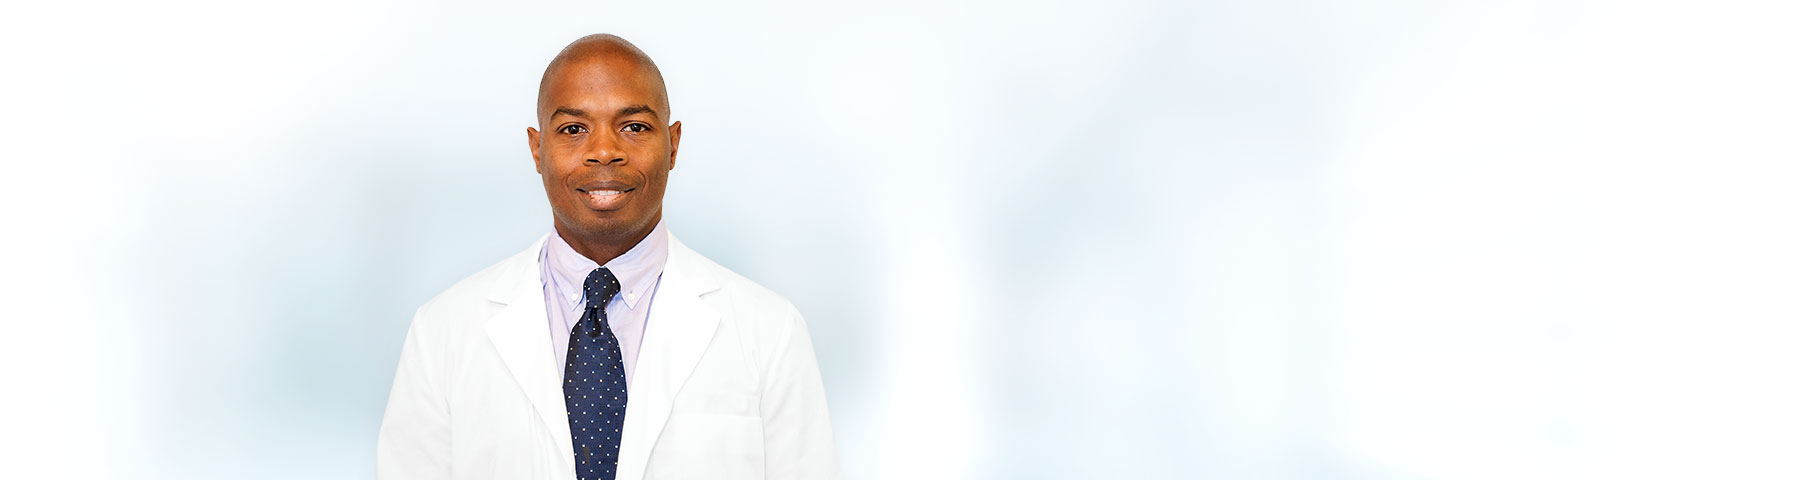
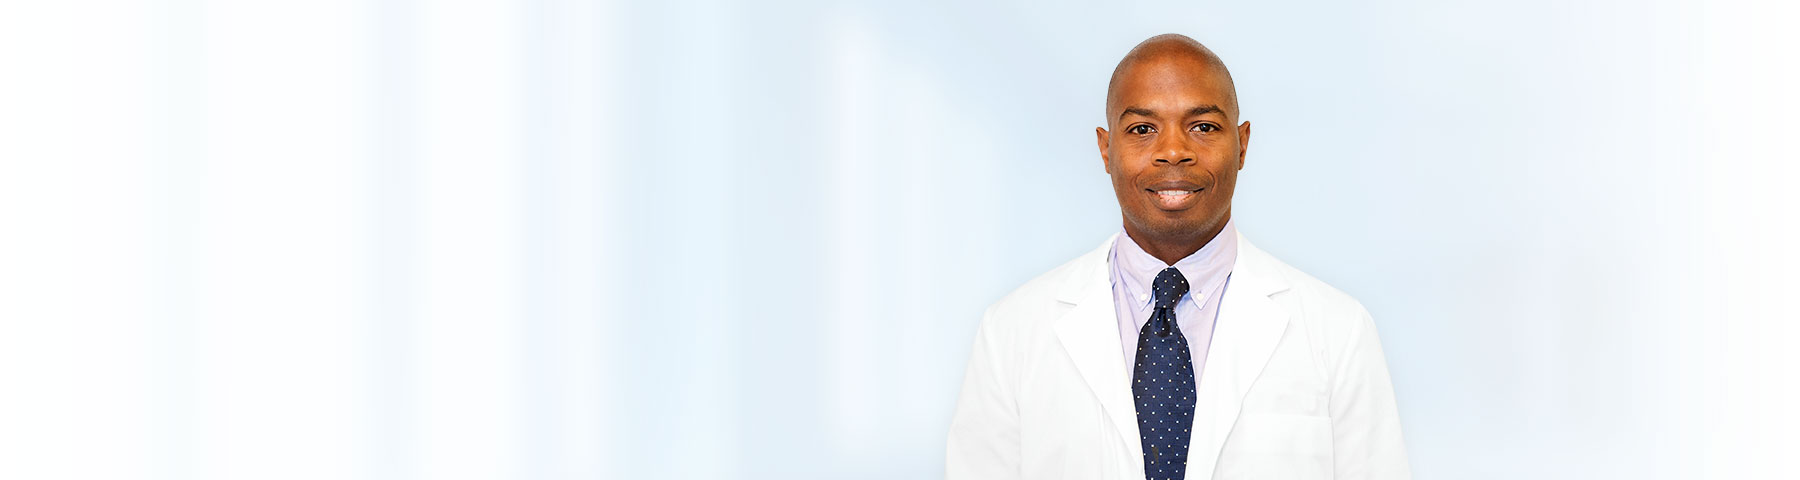
Remove Drs. Krishnan and Jih. Move Crosby to the right side.
Reviewers: samuel, michaelraines, kunaljham

Reviewed By: kunaljham

Subscribers: janky

Differential Revision: https://phabricator.carefront.net/D75

diff --git a/resources/templates/home/meet-the-doctors.html b/resources/templates/home/meet-the-doctors.html
@@ -155,42 +155,14 @@ $(function () {
 		</div>
 	</div>
 
-	<div id="doctor-jih" class="doctor">
-		<div class="container">
-			<div class="row">
-				<div class="col-md-7 col-sm-8">
-					<div class="name">Dr. Debra Jih</div>
-					<div class="title">BOARD-CERTIFIED DERMATOLOGIST</div>
-					<div class="about">Dr. Debra Jih studied medicine at the University of Pennsylvania School of Medicine and completed her residency at Case Western Reserve University Department of Dermatology. Dr. Jih practices at the Pennsylvania Centre for Dermatology and is an Associate Clinical Professor of Dermatology at the University of Pennsylvania. She is a Fellow of the American Academy of Dermatology. </div>
-					<div class="quote">“I am interested in providing high-quality, efficient and personalized care for patients with concerns about their skin.”</div>
-				</div>
-				<div class="col-md-5 col-sm-4"></div>
-			</div>
-		</div>
-	</div>
-
 	<div id="doctor-crosby" class="doctor">
 		<div class="container">
 			<div class="row">
-				<div class="col-md-5 col-sm-4"></div>
 				<div class="col-md-7 col-sm-8">
 					<div class="name">Dr. Christopher Crosby</div>
 					<div class="title">BOARD-CERTIFIED DERMATOLOGIST</div>
 					<div class="about">Dr. Christopher Crosby received his medical degree from the Medical University of South Carolina and completed his Dermatology residency at Emory University School of Medicine where he was chief resident. Dr. Crosby practices at the Grossmont Dermatology &amp; Skin Cancer Treatment Center in San Diego and is a Clinical Assistant Professor at the University of California San Diego, Department of Dermatology. He is a Fellow of the American Academy of Dermatology and the American Society for Dermatologic Surgery.</div>
 					<div class="quote">“I'm looking forward to providing personalized, high-quality care that fits easily into my patients' busy lives.”</div>
-				</div>
-			</div>
-		</div>
-	</div>
-
-	<div id="doctor-krishnan" class="doctor">
-		<div class="container">
-			<div class="row">
-				<div class="col-md-7 col-sm-8">
-					<div class="name">Dr. Lavanya Krishnan</div>
-					<div class="title">BOARD-CERTIFIED DERMATOLOGIST</div>
-					<div class="about">Dr. Lavanya Krishnan is a board-certified general and cosmetic dermatologist. She leads the dermatology practice at Pacific Plastic Surgery Group in San Francisco, California. Dr. Krishnan studied medicine at Georgia Regents University and completed her dermatology residency at the New York Medical College in New York, NY, serving as chief resident during her final year. Dr. Krishnan is a Fellow of the American Academy of Dermatology.</div>
-					<div class="quote">“With my background in technology and medicine, I'm thrilled about this synthesis of teledermatology with the Spuce Health application. I aim to utilize my multidisciplinary skills to provide quality patient care.”</div>
 				</div>
 				<div class="col-md-5 col-sm-4"></div>
 			</div>
